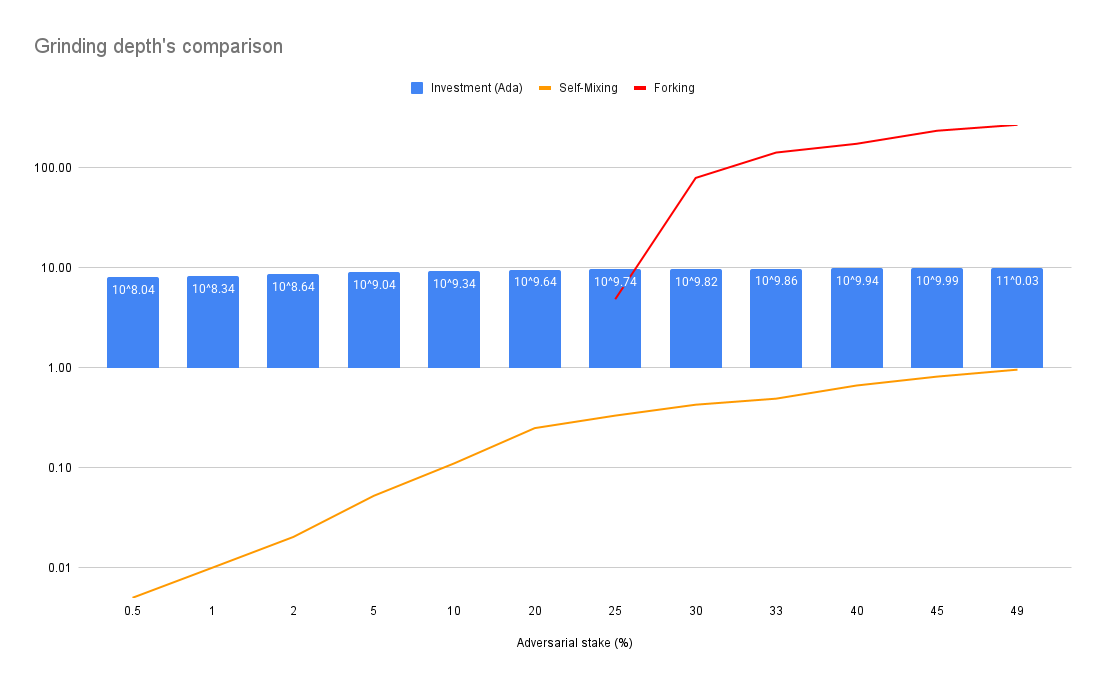
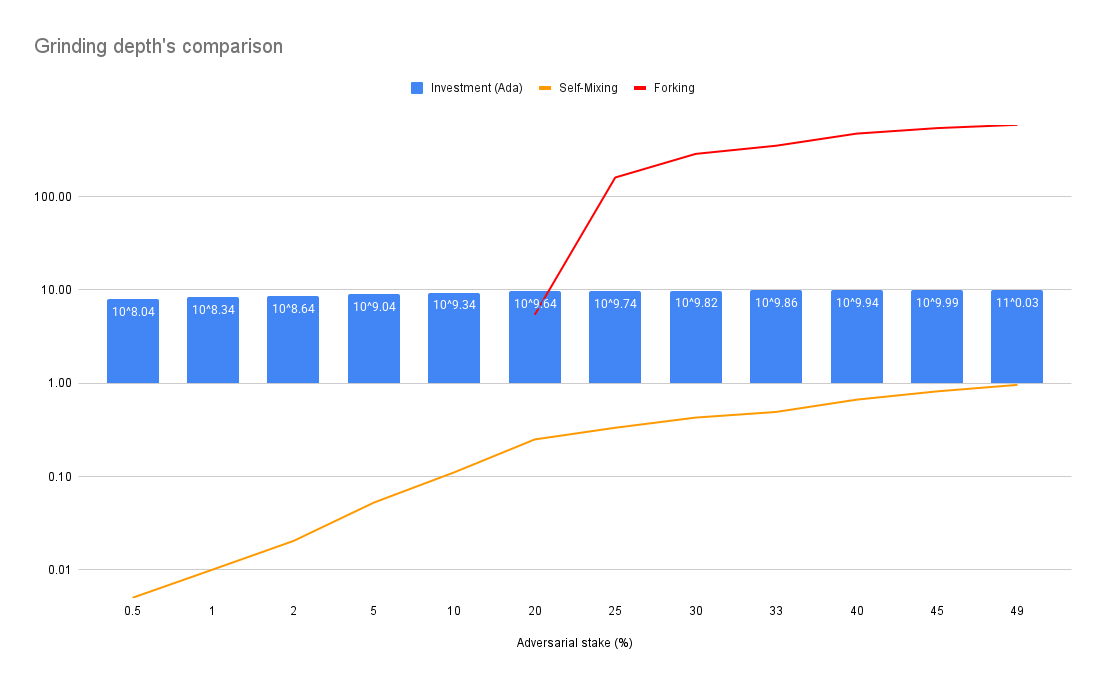
Updaing graphs in 3.2

diff --git a/CPS/graph/mixing_probabilities.py b/CPS/graph/mixing_probabilities.py
@@ -8,6 +8,7 @@ from decimal import Decimal
 from joblib import Parallel, delayed
 import scipy.special
 import argparse
+from tabulate import tabulate
 
 # Considered adversarial stakes in percentage
 stakes = [0.005, 0.01, 0.02, 0.05, 0.1, 0.2, 0.25, 0.3, 0.33, 0.4, 0.45, 0.49] 
@@ -26,53 +27,32 @@ def eg(w,s):
 
 # Computes and print the expectation of grinding attempts for all adversaries
 def all_egs(cores=1):
- start = time.time()
  results = Parallel(n_jobs=cores)(delayed(eg)(21600, s) for s in stakes)
  res = sorted(results, key=lambda x : x[0])
- end = time.time()
- print("\n--- computed in {0:.2f}s".format(end-start))
- print("stake \t E(#grinding attempts)")
- for r in res:
-  print("{0:.3f}:\t {1:.3E}".format(r[0], r[1])) 
+ # Printing tables (use tabulate's option tablefmt="plain" to have no lines)
+ headers = ["stake (%)"] + ["{:.1f}%".format(s*100) for s in stakes]
+ table = [["E(g)"] + ["{0:.2E}".format(r[1]) for r in res]]
+ print("\nTable of grinding attempts")
+ print(tabulate(table, headers, tablefmt='orgtbl'))
 
-pows = [1,2,4,8,16,32,64,128,256]
 
-def proba_table(cores=1):
-    table = []
-    row = ["N \ stake"]
-    for s in stakes:
-        row.append("{}%".format(s*100))
-    table.append(row)
-    for p in pows:
-        row = [str(p)]
-        results = Parallel(n_jobs=cores)(delayed(proba_attempts)(p, s) for s in stakes)
-        res = sorted(results, key=lambda x: x[0])
-        for r in res:
-            row.append("{0:.2E}".format(r[1]))
-        table.append(row)
-    for row in table:
-        for element in row:
-            print(element, "\t", end="")
-        print()
-
-def year_table(cores=1):
-    table = []
-    row = ["N \ stake"]
-    for s in stakes:
-        row.append("{}%".format(s*100))
-    table.append(row)
-    for p in pows:
-        row = [str(p)]
-        results = Parallel(n_jobs=cores)(delayed(proba_attempts)(p, s) for s in stakes)
-        res = sorted(results, key=lambda x: x[0])
-        for r in res:
-            row.append("{0:.2E}".format(5/(365*r[1])))
-        table.append(row)
-    for row in table:
-        for element in row:
-            print(element, "\t", end="")
-        print()
-
+def tables(cores=1):
+ table = []
+ pows = [1,2,4,8,16,32,64,128,256]
+ for p in pows:
+  results = Parallel(n_jobs=cores)(delayed(proba_attempts)(p, s) for s in stakes)
+  row = sorted(results, key=lambda x: x[0])
+  table.append([r[1] for r in row])
+ # Printing tables (use tabulate's option tablefmt="plain" to have no lines)
+ headers = ["N vs stake"] + ["{:.1f}%".format(s*100) for s in stakes]
+ # Printing the tables of probabilities
+ table_proba = [[pows[i]] + ["{:.3E}".format(el) for el in row] for (i,row) in enumerate(table)]
+ print("\nTable of probabilities")
+ print(tabulate(table_proba, headers, tablefmt='orgtbl'))
+ # Printing the tables of frequencies (per year)
+ table_year = [[pows[i]] + ["{:.2E}".format(5./(float(el)*365.0)) if float(el) !=0 else "-" for el in row] for (i,row) in enumerate(table)]
+ print("\nTable of frequencies (year)")
+ print(tabulate(table_year, headers, tablefmt='orgtbl'))
 
 def parseArguments():
     # Create argument parser
@@ -95,10 +75,10 @@ if __name__ == '__main__':
   
   # Optimize threads
   cores = min(args.cores, nb_stakes)
-  
+  print("Printing self-mixing's figures")
+
   # Run function
   all_egs(cores)
-  print("\n--------------------- Table of probabilities")
-  proba_table(cores)
-  print("\n--------------------- Table of years")
-  year_table(cores)
+
+  # Run tables
+  tables(cores)

diff --git a/CPS/graph/forking_probabilities.py b/CPS/graph/forking_probabilities.py
@@ -2,12 +2,13 @@
 
 import sys
 import math
-import time
 import scipy
 from decimal import Decimal
 from joblib import Parallel, delayed
 import scipy.special
 import argparse
+from tabulate import tabulate
+
 
 # Considered adversaral stakes in percentage
 stakes = [0.005, 0.01, 0.02, 0.05, 0.1, 0.2, 0.25, 0.3, 0.33, 0.4, 0.45, 0.49] 
@@ -58,14 +59,50 @@ def eg(s, precision=10, cores=2):
 
 # Computes and print the expectation of grinding attempts for all adversaries
 def all_egs(precision=10, cores=1):
- start = time.time()
  results = Parallel(n_jobs=cores)(delayed(eg)(s, precision) for s in stakes)
  res = sorted(results, key=lambda x : x[0])
- end = time.time()
- print("\n--- precision={0} computed in {1:.2f}s".format(precision, end-start))
- print("stake \t E(#grinding attempts)")
- for r in res:
-  print("{0:.3f}:\t {1:.3E}".format(r[0], r[1]))
+ # Printing tables (use tabulate's option tablefmt="plain" to have no lines)
+ headers = ["stake (%)"] + ["{:.1f}%".format(s*100) for s in stakes]
+ table = [["E(g)"] + ["{0:.2E}".format(r[1]) for r in res]]
+ print("\nTable of grinding attempts")
+ print(tabulate(table, headers, tablefmt='orgtbl'))
+
+
+def proba_diff(diff, s, precision=10):
+ ps = []
+ for i in range(precision+1):
+  acc = Decimal(1)
+  for j in range(1,i+1):
+   acc = acc * Decimal((diff+2*i+1-j)/j) * Decimal(s) * Decimal(1-s)
+  for j in range(i+1,diff+i+1):
+   acc = acc * Decimal((diff+2*i+1-j)/j) * Decimal(s)
+  for (j, di) in enumerate(ps):
+   acc_d = di
+   for l in range(1, i-j+1):
+    acc_d = Decimal(acc_d) * Decimal((2*i-2*j+1-l)/l) * Decimal(s) * Decimal(1-s)
+   acc = acc - acc_d
+  ps.append(acc)
+ return (s, sum(ps))
+
+def tables(precision=10, cores=1):
+ # Computing the tables of probabilities
+ table = []
+ pows = [1,2,4,8,16,32,64,128,256]
+ for p in pows:
+  results = Parallel(n_jobs=cores)(delayed(proba_diff)(p, s, precision) for s in stakes)
+  row = sorted(results, key=lambda x: x[0])
+  table.append([r[1] for r in row])
+ # Printing tables (use tabulate's option tablefmt="plain" to have no lines)
+ headers = ["|Xa - Xh| vs stake"] + ["{:.1f}%".format(s*100) for s in stakes]
+ # Printing the tables of probabilities
+ table_proba = [[pows[i]] + ["{:.3E}".format(el) for el in row] for (i,row) in enumerate(table)]
+ print("\nTable of probabilities")
+ print(tabulate(table_proba, headers, tablefmt='orgtbl'))
+ # Printing the tables of frequencies (per year)
+ table_year = [[pows[i]] + ["{:.2E}".format(5./(float(el)*365.0)) if float(el) !=0 else "-" for el in row] for (i,row) in enumerate(table)]
+ print("\nTable of frequencies (year)")
+ print(tabulate(table_year, headers, tablefmt='orgtbl'))
+
 
 def parseArguments():
     # Create argument parser
@@ -86,6 +123,12 @@ def parseArguments():
 if __name__ == '__main__':
   # Parse arguments
   args = parseArguments()
+  precision = args.precision
+  cores = min(args.cores, nb_stakes)
+  print("Printing forking's figures with precision={}".format(precision))
   
   # Run function
-  all_egs(precision=args.precision, cores=min(args.cores, nb_stakes))
+  all_egs(precision, cores)
+  
+  # Run tables
+  tables(precision, cores)

diff --git a/CPS/Readme.md b/CPS/Readme.md
@@ -830,7 +830,7 @@ Assuming the adversary controls the $X_A(w)$ slots (between slot numbered $S_2 -
 For simplicity, we consider that a honest block is produced at slot $S_2 + 1$. As such, the grinding oppotunity window is bounded by,
 
 ```math
-\frac{X_A(w)}{f} \leq w_O \leq \frac{w}{f}
+\frac{X_A(w)}{f} \leq w_O \leq \frac{w}{f} \text{ when w is A-heavy}
 ```
 
 **N.B.** Contrary to the grinding power that is upper-bounded by $2^{256}$, the grinding window is not.
@@ -949,17 +949,57 @@ We conclude that the self-mixing attack is neither highly probable nor particula
 
 ##### Forking
 
-We extend here the self-mixing strategy with forking and show how this renders the attack viable.
+We extend here the self-mixing strategy with forking and show how this renders the attack viable. 
 
-More precisely, we tabulated here the grinding powers' expectation when looking at total period of variable length, as looking at a whole epoch is computationally impractical. While the expectation converges quickly for small stake, we can note it significicantly rises when the adversary owns more than around 20\% of the total stake.
+We first introduce the formula for the probability for an adversary having $\text{stake}_A$ stake of having an advantage of $|X_A - X_H| = N$ blocks, that is an adversary controlling a majority of $N$ blocks, in any given interval smaller than $s$ blocks where $s$ is from the $s$-CQ property. 
 
- $\text{stake}_A$ (%)        |    0.5    |     1     |     2     |     5     |     10    |     20    |     25    |     30    |     33    |     40    |     45    |     49    |
-| :------------------------: | :-------: | :-------: | :-------: | :-------: | :-------: | :-------: | :-------: | :-------: | :-------: | :-------: | :-------: | :-------: |
-| $\mathbb{E}(g, n=16)$     | 1.03E-02	 |  2.12E-02 | 4.49E-02  |	1.36E-01 |	4.12E-01 |	5.17E+00 |	4.27E+01 |	3.83E+02 |	1.29E+03 |	1.51E+04 |	6.57E+04 |	1.85E+05 |
-| $\mathbb{E}(g, n=64)$     | 1.03E-02	 |  2.12E-02 | 4.49E-02  |	1.36E-01 |	4.12E-01 |	8.40E+00 |	1.01E+03 |	1.46E+05 |	2.01E+06 |	3.56E+08 |	7.37E+09 |	6.06E+10 |
-| $\mathbb{E}(g, n=128)$    | 1.03E-02	 |  2.12E-02 | 4.49E-02  |	1.36E-01 |	4.12E-01 |	1.30E+01 |	7.86E+05 |	2.92E+10 |	6.59E+12 |	2.44E+17 |	1.05E+20 |	6.87E+21 |
-| $\mathbb{E}(g, n=256)$    | 1.03E-02	 |  2.12E-02 | 4.49E-02  |	1.36E-01 |	4.12E-01 |	1.97E+01 |	6.98E+11 |	1.64E+21 |	9.60E+25 |	1.45E+35 |	2.48E+40 |	9.29E+43 |
-| $\mathbb{E}(g, n=512)$    | 1.03E-02	 |  2.12E-02 | 4.49E-02  |	1.36E-01 |	4.12E-01 |	2.91E+01 |	7.87E+23 |	7.19E+42 |	2.80E+52 |	6.60E+70 |	1.64E+81 |	1.79E+88 |
+``` math
+\begin{align*}
+\Delta_{i,N} &= \binom{N + 2 \cdot i}{N + i} - \sum_{j=0}^{i-1}  \binom{2 \cdot (i-j)}{i-j} \cdot \Delta_{j,n} \text{ and } \Delta_0^N = 1 \\
+P(|X_A-X_H|=N) &= \sum_{i=0}^{\lfloor s/2 \rfloor} \Delta_{i,N} \cdot \text{stake}_A^{N+i} \cdot (1-\text{stake}_A)^i 
+\end{align*}
+```
+
+As the formula is not computationally friendly, instead of showing numbers for an interval of size $s$, we look at a smaller interval of size $precision$, to give us a lower-bound on these numbers. We now display a lower bound on the probabilities of having  an advantage of $|X_A - X_H| = N$ blocks, and an upper-bound on the frequency of a corresponding grinding attack per year.
+
+
+<details>
+<summary>📌📌 <i> More Details on Probabilities Here </i> – <b>  Expand to view the content.</b></summary>
+
+We display here the probabilities of an adversary with a stake of $\text{stake}_A$ controlling a majority of blocks such that $|X_A - X_H| = N$:
+
+| $N \text{ vs }\ \text{stake}_A$ (%) |    0.5    |     1     |     2     |     5      |     10     |     20     |     25     |     30      |     33       |     40     |     45    |     49    |
+| :----------------------: | :-------:   | :------: | :-------: | :--------: | :--------: | :--------: | :--------: | :---------: | :----------: | :--------: | :-------: | :-------: |
+| $1$                      |  5.00E-03	 |1.00E-02	| 2.00E-02	| 5.00E-02	 | 1.00E-01	  | 2.00E-01 	 | 2.50E-01 	|  3.00E-01	  |  3.30E-01	   |  4.00E-01  | 4.50E-01	| 4.90E-01  |
+| $2$                      |  2.50E-05	 |1.00E-04	| 4.00E-04	| 2.50E-03	 | 1.00E-02	  | 4.00E-02 	 | 6.25E-02 	|  9.00E-02	  |  1.09E-01	   |  1.60E-01  | 2.03E-01	| 2.40E-01  |
+| $4$                      |  6.25E-10	 |1.00E-08	| 1.60E-07	| 6.25E-06	 | 1.00E-04	  | 1.60E-03 	 | 3.91E-03 	|  8.10E-03	  |  1.19E-02	   |  2.56E-02  | 4.10E-02	| 5.76E-02  |
+| $8$                      |  3.91E-19	 |1.00E-16	| 2.56E-14	| 3.91E-11	 | 1.00E-08	  | 2.56E-06 	 | 1.53E-05 	|  6.56E-05	  |  1.41E-04	   |  6.55E-04  | 1.68E-03	| 3.32E-03  |
+| $16$                     |  1.53E-37	 |1.00E-32	| 6.55E-28	| 1.53E-21	 | 1.00E-16	  | 6.55E-12 	 | 2.33E-10 	|  4.30E-09	  |  1.98E-08	   |  4.29E-07  | 2.83E-06	| 1.10E-05  |
+| $32$                     |  2.33E-74	 |1.00E-64	| 4.29E-55	| 2.33E-42	 | 1.00E-32	  | 4.29E-23 	 | 5.42E-20 	|  1.85E-17	  |  3.91E-16	   |  1.84E-13  | 7.99E-12	| 1.22E-10  |
+| $64$                     |  5.42E-148	 |1.00E-128 |	1.84E-109	| 5.42E-84	 | 1.00E-64	  | 1.84E-45 	 | 2.94E-39 	|  3.43E-34	  |  1.53E-31	   |  3.40E-26  | 6.39E-23	| 1.49E-20  |
+| $128$                    |  2.94E-295	 |1.00E-256 |	3.40E-218	| 2.94E-167  | 1.00E-128	| 3.40E-90 	 | 8.64E-78 	|  1.18E-67 	|  2.34E-62	   |  1.16E-51  | 4.09E-45	| 2.21E-40  |
+| $256$                    |  0.00E+00	 |0.00E+00	| 0.00E+00	| 0.00E+00	 | 1.00E-256	| 1.16E-179	 | 7.46E-155	|  1.39E-134	|  5.49E-124	 |  1.34E-102	| 1.67E-89	| 4.90E-80  |
+</details>
+</br>
+
+
+
+<div align="center">
+<!-- <img src="grinding_forking_probabilities.png" alt="" /> -->
+<img src="grinding_forking_years.png" alt="" />
+</div>
+
+
+We now tabulatethe grinding power's expectation when looking at different precision $s$. While the expectation converges quickly for small stake, smaller than 20\%, we can note it significicantly rises afterwards.
+ $\text{precision} \text{ vs stake}_A$ |   0.5% |   1.0% |   2.0% |   5.0% |   10.0% |   20.0% |    25.0% |    30.0% |     33.0% |     40.0% |     45.0% |     49.0% |
+| :----------------------------------: | :----: | :----: | :----: | :----: | :-----: | :-----: | :------: | :------: | :-------: | :-------: | :-------: | :-------: |
+| 16                                   | 0.0203 | 0.0414 | 0.0857 |  0.242 |   0.636 |    3.49 |     8.86 |       22 |      36.8 |       108 |       209 |       334 |
+| 32                                   | 0.0203 | 0.0414 | 0.0857 |  0.242 |   0.637 |    5.71 |     43.4 |      384 |     1,290 |    15,100 |    65,700 |   185,000 |
+| 64                                   | 0.0203 | 0.0414 | 0.0857 |  0.242 |   0.637 |    8.93 |     1010 |  145,000 |  2.01e+06 |  3.56e+08 |  7.36e+09 |  6.06e+10 |
+| 128                                  | 0.0203 | 0.0414 | 0.0857 |  0.242 |   0.637 |    13.6 |  786,000 | 2.92e+10 |  6.59e+12 |  2.44e+17 |  1.05e+20 |  6.87e+21 |
+| 256                                  | 0.0203 | 0.0414 | 0.0857 |  0.242 |   0.637 |    20.2 | 6.98e+11 | 1.64e+21 |   9.6e+25 |  1.45e+35 |  2.48e+40 |  9.29e+43 |
+| 512                                  | 0.0203 | 0.0414 | 0.0857 |  0.242 |   0.637 |    29.6 | 7.87e+23 | 7.19e+42 |   2.8e+52 |  6.59e+70 |  1.64e+81 |  1.79e+88 |
+| 1024                                 | 0.0203 | 0.0414 | 0.0857 |  0.242 |   0.637 |      43 | 1.43e+48 | 1.94e+86 | 3.32e+105 | 1.84e+142 | 8.81e+162 | 7.03e+176 |
 
 We can approximate the expected grinding power as an exponential function of the precision, i.e. $E(g, n)= \text{poly}(n) \cdot \zeta^n$. Looking at the exponential's based, $\zeta$ can tell us precisely when the grinding power becomes rises exponentially, that is when $\zeta = 1$ the exponentiaition starts growing instead of decaying. The following graph indeed confirms that 20\% is the threshold.
 
